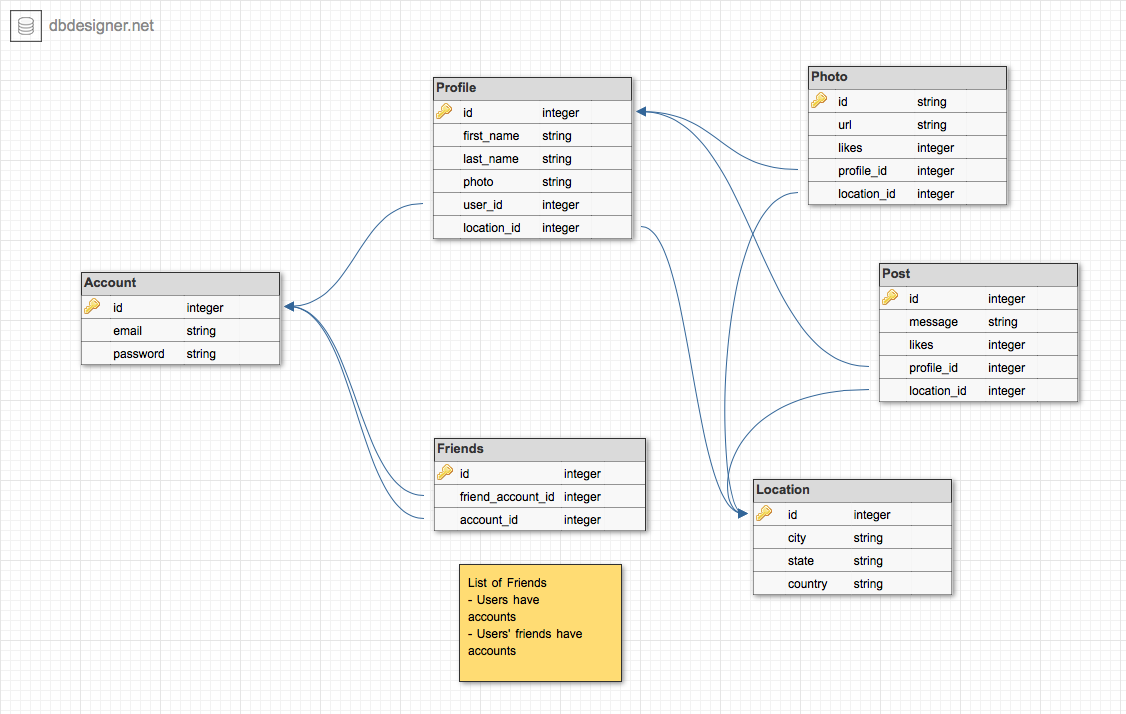
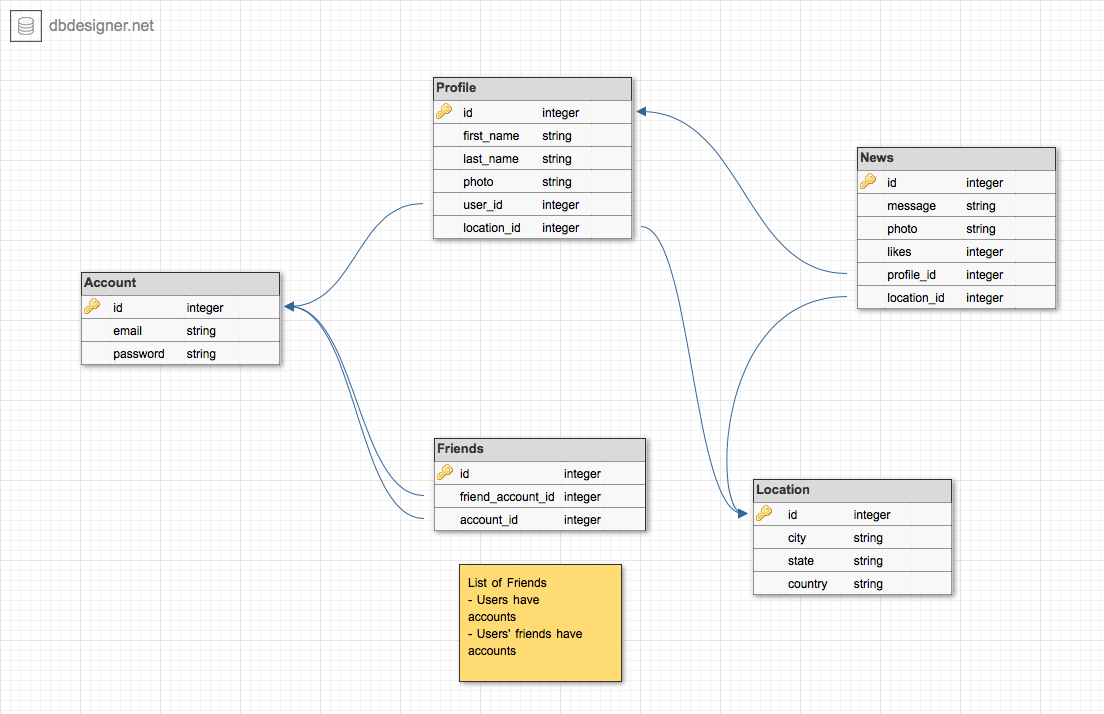
Add News scaffold

diff --git a/app/assets/stylesheets/news.scss b/app/assets/stylesheets/news.scss
@@ -1,0 +1,3 @@
+// Place all the styles related to the News controller here.
+// They will automatically be included in application.css.
+// You can use Sass (SCSS) here: http://sass-lang.com/

diff --git a/app/controllers/news_controller.rb b/app/controllers/news_controller.rb
@@ -1,0 +1,74 @@
+class NewsController < ApplicationController
+  before_action :set_news, only: [:show, :edit, :update, :destroy]
+
+  # GET /news
+  # GET /news.json
+  def index
+    @news = News.all
+  end
+
+  # GET /news/1
+  # GET /news/1.json
+  def show
+  end
+
+  # GET /news/new
+  def new
+    @news = News.new
+  end
+
+  # GET /news/1/edit
+  def edit
+  end
+
+  # POST /news
+  # POST /news.json
+  def create
+    @news = News.new(news_params)
+
+    respond_to do |format|
+      if @news.save
+        format.html { redirect_to @news, notice: 'News was successfully created.' }
+        format.json { render :show, status: :created, location: @news }
+      else
+        format.html { render :new }
+        format.json { render json: @news.errors, status: :unprocessable_entity }
+      end
+    end
+  end
+
+  # PATCH/PUT /news/1
+  # PATCH/PUT /news/1.json
+  def update
+    respond_to do |format|
+      if @news.update(news_params)
+        format.html { redirect_to @news, notice: 'News was successfully updated.' }
+        format.json { render :show, status: :ok, location: @news }
+      else
+        format.html { render :edit }
+        format.json { render json: @news.errors, status: :unprocessable_entity }
+      end
+    end
+  end
+
+  # DELETE /news/1
+  # DELETE /news/1.json
+  def destroy
+    @news.destroy
+    respond_to do |format|
+      format.html { redirect_to news_index_url, notice: 'News was successfully destroyed.' }
+      format.json { head :no_content }
+    end
+  end
+
+  private
+    # Use callbacks to share common setup or constraints between actions.
+    def set_news
+      @news = News.find(params[:id])
+    end
+
+    # Never trust parameters from the scary internet, only allow the white list through.
+    def news_params
+      params.require(:news).permit(:message, :photo, :likes, :profile_id)
+    end
+end

diff --git a/test/controllers/news_controller_test.rb b/test/controllers/news_controller_test.rb
@@ -1,0 +1,48 @@
+require 'test_helper'
+
+class NewsControllerTest < ActionDispatch::IntegrationTest
+  setup do
+    @news = news(:one)
+  end
+
+  test "should get index" do
+    get news_index_url
+    assert_response :success
+  end
+
+  test "should get new" do
+    get new_news_url
+    assert_response :success
+  end
+
+  test "should create news" do
+    assert_difference('News.count') do
+      post news_index_url, params: { news: { likes: @news.likes, message: @news.message, photo: @news.photo, profile_id: @news.profile_id } }
+    end
+
+    assert_redirected_to news_url(News.last)
+  end
+
+  test "should show news" do
+    get news_url(@news)
+    assert_response :success
+  end
+
+  test "should get edit" do
+    get edit_news_url(@news)
+    assert_response :success
+  end
+
+  test "should update news" do
+    patch news_url(@news), params: { news: { likes: @news.likes, message: @news.message, photo: @news.photo, profile_id: @news.profile_id } }
+    assert_redirected_to news_url(@news)
+  end
+
+  test "should destroy news" do
+    assert_difference('News.count', -1) do
+      delete news_url(@news)
+    end
+
+    assert_redirected_to news_index_url
+  end
+end

diff --git a/db/schema.rb b/db/schema.rb
@@ -10,7 +10,7 @@
 #
 # It's strongly recommended that you check this file into your version control system.
 
-ActiveRecord::Schema.define(version: 20170918075131) do
+ActiveRecord::Schema.define(version: 20170919045546) do
 
   create_table "accounts", force: :cascade do |t|
     t.string "email", default: "", null: false
@@ -36,6 +36,16 @@ ActiveRecord::Schema.define(version: 20170918075131) do
     t.datetime "created_at", null: false
     t.datetime "updated_at", null: false
     t.integer "account_id"
+  end
+
+  create_table "news", force: :cascade do |t|
+    t.string "message"
+    t.string "photo"
+    t.integer "likes"
+    t.integer "profile_id"
+    t.datetime "created_at", null: false
+    t.datetime "updated_at", null: false
+    t.index ["profile_id"], name: "index_news_on_profile_id"
   end
 
   create_table "profiles", force: :cascade do |t|

diff --git a/db/migrate/20170919045546_create_news.rb b/db/migrate/20170919045546_create_news.rb
@@ -1,0 +1,12 @@
+class CreateNews < ActiveRecord::Migration[5.1]
+  def change
+    create_table :news do |t|
+      t.string :message
+      t.string :photo
+      t.integer :likes
+      t.references :profile, foreign_key: true
+
+      t.timestamps
+    end
+  end
+end

diff --git a/config/routes.rb b/config/routes.rb
@@ -1,4 +1,5 @@
 Rails.application.routes.draw do
+  resources :news
   #resources :friends
   resources :friends, :only => [:index, :show, :new, :destroy] do
     get ":friend_account_id", to: "friends#friend_add", on: :new

diff --git a/test/system/news_test.rb b/test/system/news_test.rb
@@ -1,0 +1,9 @@
+require "application_system_test_case"
+
+class NewsTest < ApplicationSystemTestCase
+  # test "visiting the index" do
+  #   visit news_url
+  #
+  #   assert_selector "h1", text: "News"
+  # end
+end

diff --git a/test/models/news_test.rb b/test/models/news_test.rb
@@ -1,0 +1,7 @@
+require 'test_helper'
+
+class NewsTest < ActiveSupport::TestCase
+  # test "the truth" do
+  #   assert true
+  # end
+end

diff --git a/app/models/news.rb b/app/models/news.rb
@@ -1,0 +1,3 @@
+class News < ApplicationRecord
+  belongs_to :profile
+end

diff --git a/app/helpers/news_helper.rb b/app/helpers/news_helper.rb
@@ -1,0 +1,2 @@
+module NewsHelper
+end

diff --git a/README.md b/README.md
@@ -8,18 +8,16 @@
 ![erd database](/docs/images/erd.png)
 
 # DB Tables
-I made 6 tables for my app, Account, Profile, Friend, Photo, Post and Location.
+I made 5 tables for my app, Account, Profile, Friend, News and Location.
 - Account stores the user's email and password.
 - Profile stores the user information and references to Photos and Posts.
 - Friends stores the user's list of friend accounts
-- Photo stores the user's photo, its likes and location.
-- Post stores the news feed messages, its likes and location.
+- News stores the user's news feed, likes and location.
 - Location stores a list cities, states and countries.
 
 Each account has one profile, one location and a list of friends.
 Each profile has many photos and posts.
-Each photo has one location.
-Each post has one location.
+Each news has one location.
 Each friend has one account.
 
 ## Account
@@ -37,14 +35,9 @@ Each friend has one account.
 ## Friends
 - friend_account_id
 
-## Photo
-- url
-- likes
-- profile_id (belongs_to)
-- location_id
-
-## Post
+## News
 - message
+- photo
 - likes
 - profile_id (belongs_to)
 - location_id
